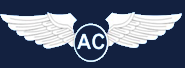
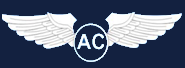
Normalize OCP badge fabric backgrounds

diff --git a/index.html b/index.html
@@ -13770,7 +13770,7 @@ try{ wireShoulderCordControl(); syncShoulderCordControl(); fullRender(); }catch(
     const CAPUB_INCIDENT_COMMANDER_BADGE_IDS = new Set([
       'basic_incident_commander_badge','incident_commander_1_badge','incident_commander_2_badge'
     ]);
-    const CAPUB_UTILITY_BADGE_PREVIEW_REVISION = 'capr-fabric-20260825-v4';
+    const CAPUB_UTILITY_BADGE_PREVIEW_REVISION = 'capr-fabric-20260825-v5';
 
     function capubUtilityBadgePreviewUrl(id){
       return `${ASSET(`badges/utility/${id}.png`)}?v=${CAPUB_UTILITY_BADGE_PREVIEW_REVISION}`;

diff --git a/scripts/normalize_utility_badges.py b/scripts/normalize_utility_badges.py
@@ -1,0 +1,90 @@
+"""Normalize utility-badge artwork to the CAP dark-blue cloth field.
+
+The source images come from several exports. Some include transparent padding,
+white crop lines, or a slightly different navy. This script crops to the actual
+cloth rectangle, composites transparency onto CAP dark blue, normalizes only
+dark-navy background pixels, and guarantees a clean two-pixel source edge. The
+builder supplies the physical 1/8-inch border at render time.
+"""
+
+from __future__ import annotations
+
+import argparse
+from pathlib import Path
+
+from PIL import Image
+
+
+CAP_DARK_BLUE = (19, 33, 64, 255)
+
+
+def is_cloth_blue(pixel: tuple[int, int, int, int]) -> bool:
+    red, green, blue, alpha = pixel
+    return (
+        alpha > 16
+        and red < 85
+        and green < 100
+        and blue < 135
+        and blue >= red + 12
+    )
+
+
+def cloth_bounds(image: Image.Image) -> tuple[int, int, int, int]:
+    pixels = image.load()
+    coordinates = [
+        (x, y)
+        for y in range(image.height)
+        for x in range(image.width)
+        if is_cloth_blue(pixels[x, y])
+    ]
+    if not coordinates:
+        return (0, 0, image.width, image.height)
+    xs, ys = zip(*coordinates)
+    return (min(xs), min(ys), max(xs) + 1, max(ys) + 1)
+
+
+def normalize(path: Path) -> bool:
+    original = Image.open(path).convert("RGBA")
+    image = original.crop(cloth_bounds(original))
+    pixels = image.load()
+
+    for y in range(image.height):
+        for x in range(image.width):
+            red, green, blue, alpha = pixels[x, y]
+            if alpha == 0 or is_cloth_blue((red, green, blue, alpha)):
+                pixels[x, y] = CAP_DARK_BLUE
+
+    # Remove one-pixel white export/crop lines without touching the embroidery.
+    edge_depth = min(2, image.width // 2, image.height // 2)
+    for offset in range(edge_depth):
+        for x in range(image.width):
+            pixels[x, offset] = CAP_DARK_BLUE
+            pixels[x, image.height - 1 - offset] = CAP_DARK_BLUE
+        for y in range(image.height):
+            pixels[offset, y] = CAP_DARK_BLUE
+            pixels[image.width - 1 - offset, y] = CAP_DARK_BLUE
+
+    before = original.tobytes()
+    changed = image.size != original.size or image.tobytes() != before
+    if changed:
+        image.save(path, optimize=True)
+    return changed
+
+
+def main() -> None:
+    parser = argparse.ArgumentParser()
+    parser.add_argument(
+        "directory",
+        nargs="?",
+        type=Path,
+        default=Path(__file__).resolve().parents[1] / "images" / "badges" / "utility",
+    )
+    args = parser.parse_args()
+    changed = [path.name for path in sorted(args.directory.glob("*.png")) if normalize(path)]
+    print(f"Normalized {len(changed)} utility badge assets in {args.directory}")
+    for filename in changed:
+        print(filename)
+
+
+if __name__ == "__main__":
+    main()
